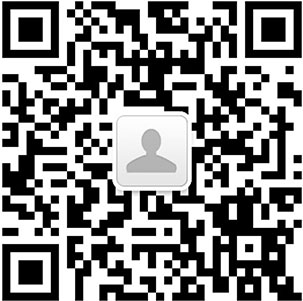
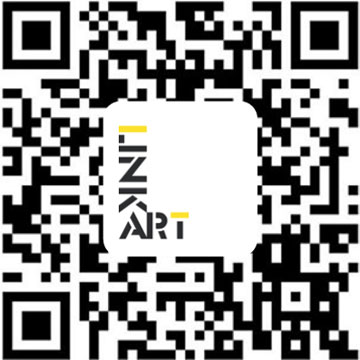
change footer css

diff --git a/css/share_public.css b/css/share_public.css
@@ -57,8 +57,8 @@
 .get-all-comment-btn{display:block;width:100%;line-height:2rem;text-align: center;background:#000 url("../img/comment-icon.png") no-repeat 1.6rem center;background-size:0.7rem;color:#fff;font-size:0.6rem;border-radius: 0.2rem;letter-spacing: 1px;margin-top:0.8rem;}
 
 .page-footer{width:12.8rem;height:11.5rem;border:1px solid #eaeaeb;margin:0.6rem auto 0;overflow: hidden;}
-.page-footer .qrcode{width:6.4rem;margin:0.9rem auto 0;display: block;}
-.page-footer .compay-name{font-size:0.8rem;text-align: center;margin-top:1.2rem;font-weight: bold;}
+.page-footer .qrcode{width:7.68rem;height:7.68rem;margin:1rem auto 0;display: block;}
+.page-footer .compay-name{font-size:0.8rem;text-align: center;margin-top:1.2rem;font-weight: bold;display:none;}
 .page-footer .focus-text{text-align: center;margin-top:0.5rem;color:#7b7b7b;}
 
 .line{width:100%;border-bottom:1px solid #d8d8d8;margin-top:0.3rem;letter-spacing: 1px;}

diff --git a/CV_share_gov.html b/CV_share_gov.html
@@ -2,7 +2,7 @@
 <html lang="en">
 <head>
     <meta charset="UTF-8">
-    <title>CV分享</title>
+    <title>CV分享官方</title>
     <meta name="description" content="">
     <meta name="HandheldFriendly" content="True">
     <meta name="MobileOptimized" content="320">
